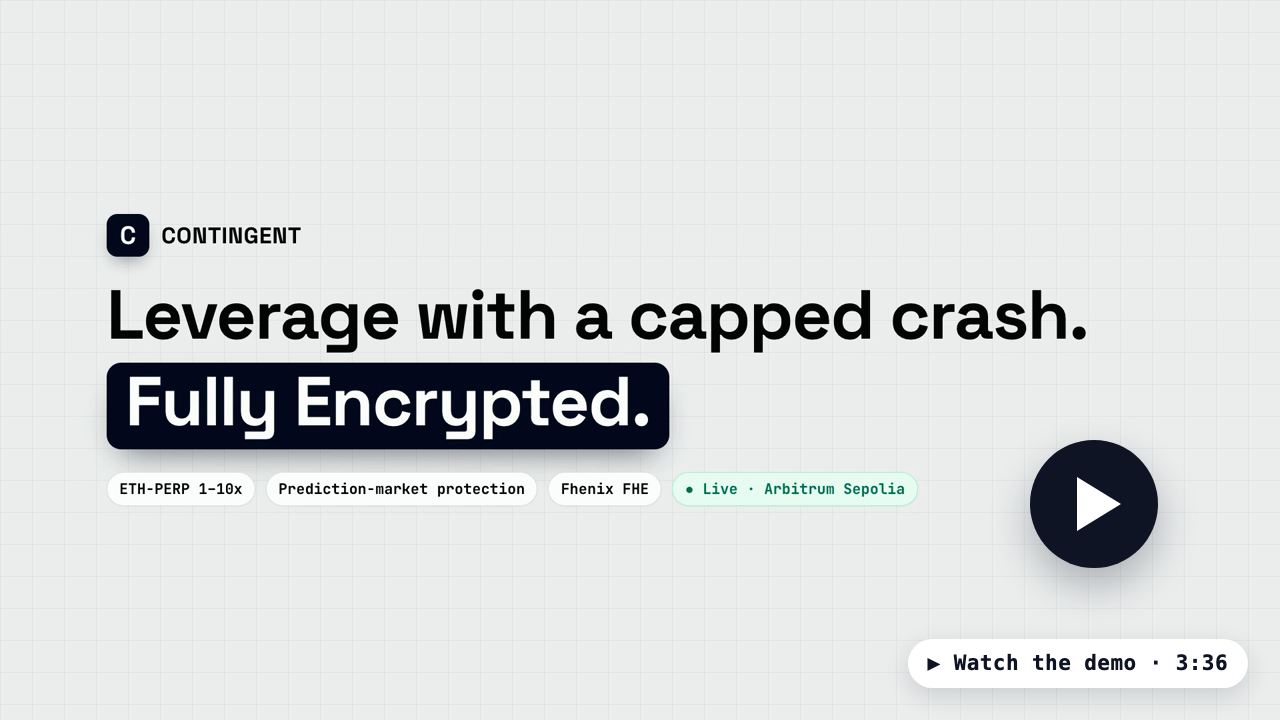
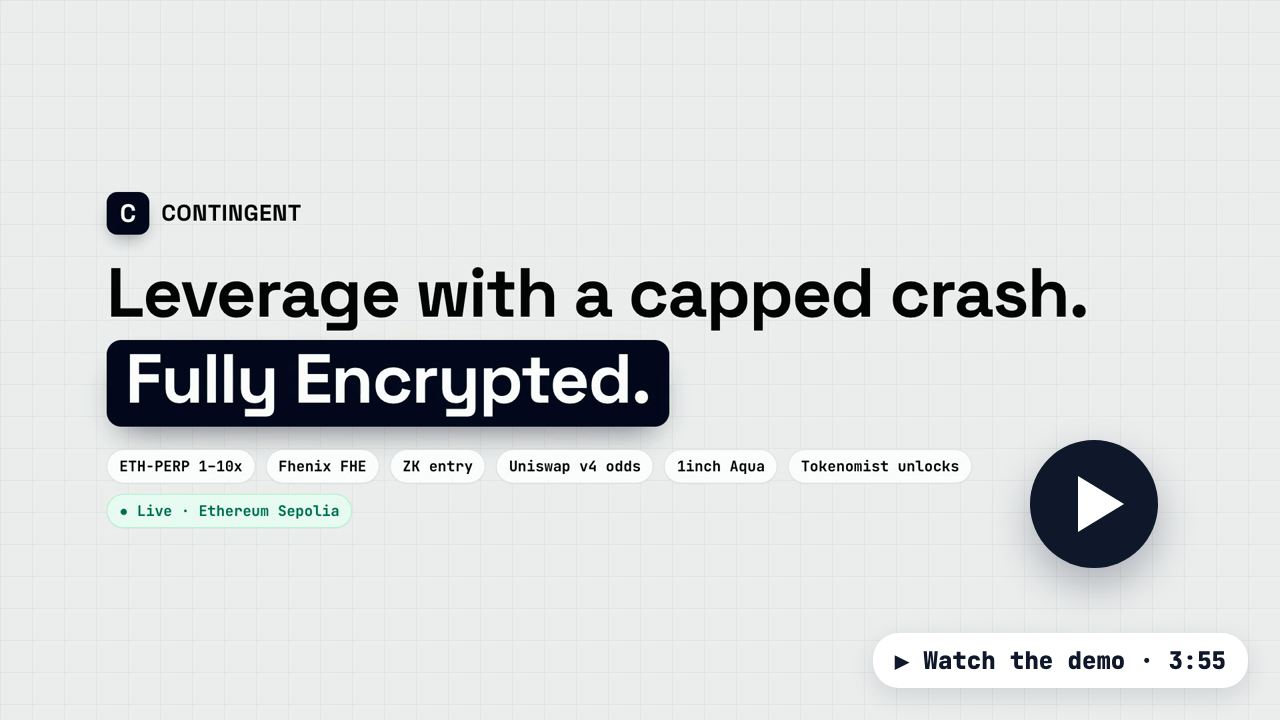
add: all

diff --git a/README.md b/README.md
@@ -9,15 +9,15 @@ size, direction, liquidation price or protection. Everything settles in **USDG**
 
 **Live on Ethereum Sepolia** · **21 contracts, all verified on Etherscan** · **79 Foundry tests passing** · real
 Chainlink prices · real FHE encryption (Fhenix CoFHE) · Uniswap v4 odds pool · 1inch Aqua backstop · zero-knowledge
-entry · rounds rolled by a Chainlink CRE workflow
+entry · rounds rolled by a Chainlink CRE workflow · token unlock radar from Tokenomist
 
 ## Demo Video
 
-[![Contingent Demo](./media/demo-cover.png)](https://youtu.be/5TD7ZywqFJs)
+[![Contingent Demo](./media/demo-cover.png)](https://youtu.be/q7s4tlTwnsE)
 
 | | |
 |---|---|
-| 🌐 **Live app** | **[contingentine.xyz](https://contingentine.xyz)**: Ethereum Sepolia, connect MetaMask (test USDG is free to mint) |
+| 🌐 **Live app** | **[contingentine.vercel.app](https://contingentine.vercel.app)**: Ethereum Sepolia, connect MetaMask (test USDG is free to mint) |
 | 📜 **Contracts** | [Ethereum Sepolia deployment](#71-second-deployment-ethereum-sepolia-redeployed-15-oct-2026) (verified on Etherscan, addresses in [`DEPLOYMENTS.md`](DEPLOYMENTS.md)) · the original [Arbitrum Sepolia deployment](#61-deployed-contracts-arbitrum-sepolia--chain-421614) |
 | 📖 **Explainer** | [`hedging-explained.html`](hedging-explained.html): hedging a perp with a prediction market, with worked numbers |
 | 🧪 **Try it yourself** | [`STEPS.md`](STEPS.md): click-by-click walkthrough of every tab |
@@ -115,7 +115,7 @@ Everything below runs against the deployed contracts on Arbitrum Sepolia, and ev
 | Tab | Features |
 |---|---|
 | **PERPS** | Wrap USDG to confidential cUSDG → deposit as encrypted collateral · **👁 Reveal**: your balance decrypted *only in your browser*, next to the ciphertext handle everyone else sees · open LONG/SHORT 1–10x · **🛡 Open protected position** (perp + event protection in one tx) · positions **masked by default** with per-position reveal · **Close both** (perp settles through async decrypt, protection premium refunded) · keeper **liquidation check** that reveals **one bit** only |
-| **MARKET** | The public prediction market: live odds, YES/NO pools, stake to move the odds · live Chainlink ETH/USD chart with the **YES / NO zones** around the strike and a "distance to strike" readout · premium calculator |
+| **MARKET** | The public prediction market: live odds, YES/NO pools, stake to move the odds · live Chainlink ETH/USD chart with the **YES / NO zones** around the strike and a "distance to strike" readout · premium calculator · **Unlock radar**: upcoming token unlocks from Tokenomist (date, value, % of market cap, who receives them), the supply shocks a long wants hedged before the date |
 | **HEDGE** | Open an **encrypted binary derivative** directly (YES/NO, notional) with a live payoff chart · your hedges list |
 | **LIQUIDITY** | LPs deposit USDG into the LP vault (`UnderwriterVault`), which is the counterparty to every hedge · reserve book (total, earmarked, free, paid out) |
 | **SETTLE** | Resolve the event from Chainlink → settle a position (only the **winning payout** is decrypted) → sweep premiums to LPs (only the **aggregate** is decrypted) → finalise and release capacity |
@@ -397,7 +397,7 @@ contingent/
 ├── src/                     Solidity (≈1,550 lines): perps, protection, hedges, vaults, market, resolvers, v4 hook
 ├── test/                    Foundry tests (8 suites, 39 tests, CofheTest mocks)
 ├── script/                  Deploy scripts · new-event-round.sh
-├── frontend/                Next.js app (live at contingentine.xyz) · E2E + live test scripts
+├── frontend/                Next.js app (live at contingentine.vercel.app) · E2E + live test scripts
 ├── demo-video/              Demo videos, scenario files, voice-over script
 ├── DEPLOYMENTS.md           Addresses + Arbiscan links + deploy notes
 ├── STEPS.md · HOW-TO.md     Manual walkthrough · usage guide
